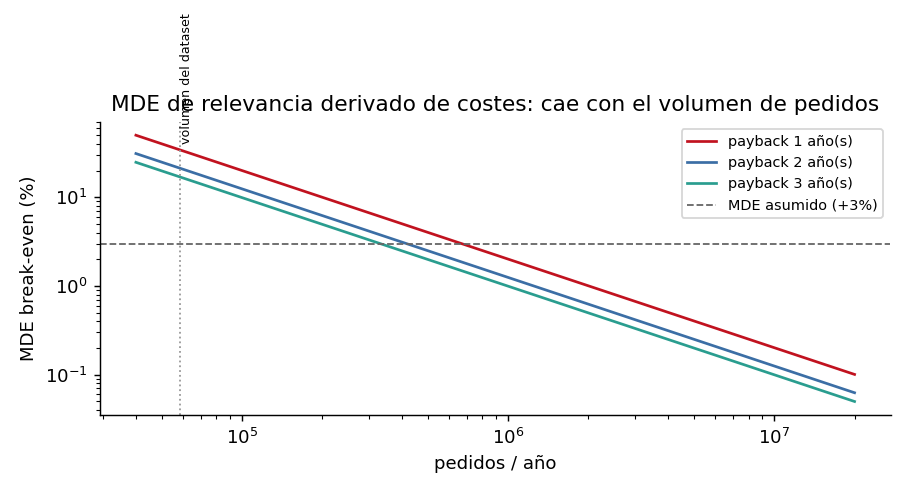
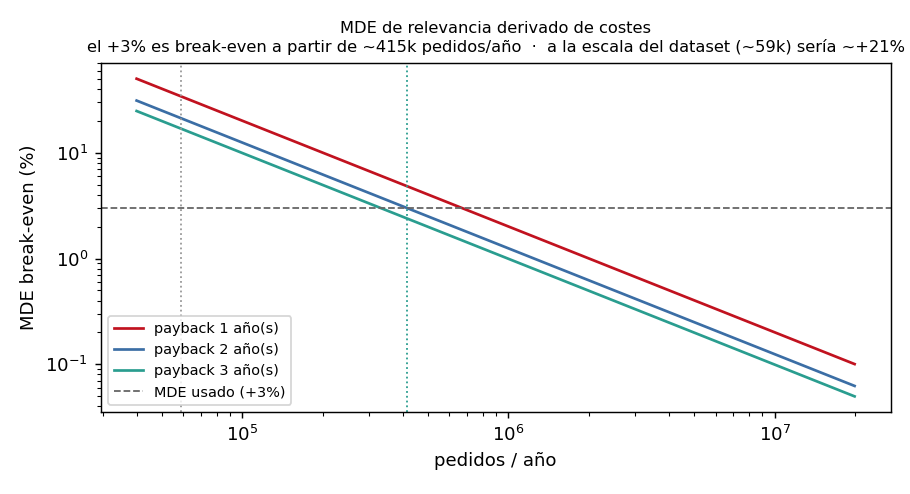
mde_cost_model: figura más legible (título + líneas de referencia)

diff --git a/src/mde_cost_model.py b/src/mde_cost_model.py
@@ -78,13 +78,15 @@ def main():
     for yrs, col in zip((1, 2, 3), ("#c1121f", "#3b6ea5", "#2a9d8f")):
         ax.plot(vols, [breakeven_lift(v, years=yrs) * 100 for v in vols], color=col,
                 label=f"payback {yrs} año(s)")
-    ax.axhline(3.0, color="#666", ls="--", lw=1, label="MDE asumido (+3%)")
+    ax.axhline(3.0, color="#666", ls="--", lw=1, label="MDE usado (+3%)")
     ax.axvline(58_700, color="#999", ls=":", lw=1)
-    ax.annotate("volumen del dataset", (58_700, 40), fontsize=7, rotation=90, va="bottom")
+    ax.axvline(415_000, color="#2a9d8f", ls=":", lw=1)
     ax.set_xscale("log"); ax.set_yscale("log")
     ax.set_xlabel("pedidos / año"); ax.set_ylabel("MDE break-even (%)")
-    ax.set_title("MDE de relevancia derivado de costes: cae con el volumen de pedidos")
-    ax.legend(fontsize=8)
+    ax.set_title("MDE de relevancia derivado de costes\n"
+                 "el +3% es break-even a partir de ~415k pedidos/año  ·  a la escala del dataset "
+                 "(~59k) sería ~+21%", fontsize=9)
+    ax.legend(fontsize=8, loc="lower left")
     fig.tight_layout()
     fig.savefig(FIG / "f_mde_breakeven.png", dpi=130)
     print(f"\nfigura -> {FIG / 'f_mde_breakeven.png'}")
